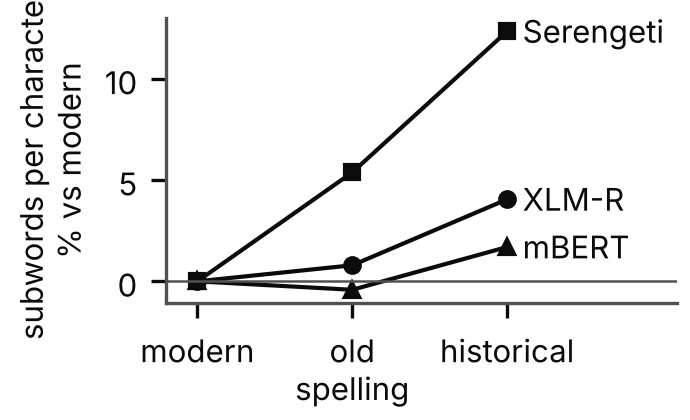
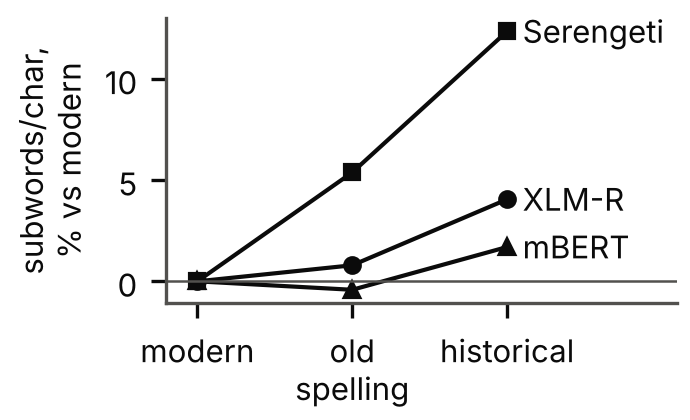
Last text fixes: figure label, hedged mechanism, wording
- Tokenizer plot y-label no longer cut off
- "would explain" instead of "predicts" for the selection mechanism
- Figure 2 caption says historical text; abstract names the difference
- Limitations wording: mission-educated voices

Claude-Session: https://claude.ai/code/session_01HjGapPgXs2nXn4XaJz3uNP

Changed region(s): [[0.0304, 0.0, 0.0913, 0.8048]]

diff --git a/paper/paper_template.tex b/paper/paper_template.tex
@@ -28,7 +28,7 @@
 
 \section{Abstract}
 {\bf \looseness=-1
-Isigidimi sama-Xosa was founded by missionaries; Imvo Zabantsundu (1884) was the first African-owned isiXhosa paper. Did it leave a trace in what each paper covered (salience) or in how it used words (framing)? Against frequency-matched random words, salience separates the papers: Imvo uses parliamentary vocabulary about 3.3 times as often, Isigidimi religious vocabulary about four times as often, and the religious result replicates in held-out years. Framing is weaker and less specific: embedding spaces differ globally and a pooled parliament-and-vote set is suggestively shifted (@@P1@@--@@P2@@ percentile of matched sets), but no concept survives correction and a directional test is significant in one of four conditions. Historical text also costs modern tokenizers 2--12\% more subwords per character, of which spelling alone is up to 5\%, most for an African-language model. Missionary control shows in agenda; its trace in framing is at best suggestive.}
+Isigidimi sama-Xosa was founded by missionaries; Imvo Zabantsundu (1884) was the first African-owned isiXhosa paper. Did that difference leave a trace in what each paper covered (salience) or in how it used words (framing)? Against frequency-matched random words, salience separates the papers: Imvo uses parliamentary vocabulary about 3.3 times as often, Isigidimi religious vocabulary about four times as often, and the religious result replicates in held-out years. Framing is weaker and less specific: embedding spaces differ globally and a pooled parliament-and-vote set is suggestively shifted (@@P1@@--@@P2@@ percentile of matched sets), but no concept survives correction and a directional test is significant in one of four conditions. Historical text costs modern tokenizers 2--12\% more subwords per character, of which spelling alone is up to 5\%, most for an African-language model. Missionary control shows in agenda; its trace in framing is at best suggestive.}
 \begin{quote}\small \textbf{Keywords:} historical isiXhosa; agenda-setting versus framing; tokenizer fairness\end{quote}
 
 \section{Introduction and Background}\label{Intro}
@@ -58,7 +58,7 @@ The IsiXhosa Intellectual Traditions archive \citep{schoots2023} holds South Afr
 \includegraphics[width=2.3in]{fig_religion_by_year.png}\hfill
 \includegraphics[width=2.3in]{fig_parliament_by_year.png}\hfill
 \includegraphics[width=2.3in]{fig_tokenizer_cost.png}
-\caption{Religious vocabulary was falling in Isigidimi long before 1884 (left); parliamentary vocabulary appears only in 1883 (centre); the African-language tokenizer pays most for historical spelling (right). Per million tokens (grey: Jabavu's probable years, unconfirmed; light blue: fortnightly Isigidimi).}
+\caption{Religious vocabulary was falling in Isigidimi long before 1884 (left); parliamentary vocabulary appears only in 1883 (centre); the African-language tokenizer pays most for historical text (right). Per million tokens (grey: Jabavu's probable years, unconfirmed; light blue: fortnightly Isigidimi).}
 \label{fig:two2}
 \end{figure*}
 
@@ -72,13 +72,13 @@ The IsiXhosa Intellectual Traditions archive \citep{schoots2023} holds South Afr
 
 \section{Discussion}
 \looseness=-1
-\textbf{Agenda more than framing.} Missionary control is clearest in coverage: Isigidimi's religious vocabulary matches the archive's qualitative account \citep{schoots2023} and replicates out of window. A selection mechanism predicts this: both papers carried correspondents' reports and readers' letters \citep{schoots2023}, so an editor's chief power was choosing what to print, which moves salience (agenda-setting; \citealp{mccombs1972}) without changing how contributors used words (framing; \citealp{entman1993}). We can rule out framing shifts above the detection floor, not smaller ones; the pooled parliament--vote shift, consistent across settings but never surviving correction, is suggestive only. The archive's 1885 type labels (editorials vs letters) allow a test.
+\textbf{Agenda more than framing.} Missionary control is clearest in coverage: Isigidimi's religious vocabulary matches the archive's qualitative account \citep{schoots2023} and replicates out of window. A selection mechanism would explain this: both papers carried correspondents' reports and readers' letters \citep{schoots2023}, so an editor's chief power was choosing what to print, which moves salience (agenda-setting; \citealp{mccombs1972}) without changing how contributors used words (framing; \citealp{entman1993}). We can rule out framing shifts above the detection floor, not smaller ones; the pooled parliament--vote shift, consistent across settings but never surviving correction, is suggestive only. The archive's 1885 type labels (editorials vs letters) allow a test.
 
-\textbf{Attribution.} Parliamentary vocabulary enters Isigidimi in 1883--84, the end of Jabavu's probable 1881--83 editorship (secondary sources; not given in the archive paper), not his arrival in 1881, and coincides with fortnightly publication and the 1884 election; an editor effect is not identified.
+\textbf{Attribution.} Parliamentary vocabulary enters Isigidimi in 1883--84, the end of Jabavu's probable 1881--83 editorship (secondary sources; absent from the archive paper), not his arrival in 1881, and coincides with fortnightly publication and the 1884 election; an editor effect is not identified.
 
 \textbf{Why framing is hard to see.} Words shift globally but rarely specifically: the most-shifted are function words, verb forms and \emph{xosa}, Isigidimi's spelling of \emph{xhosa}. Joining forms left the gap unchanged, so word division is not the explanation; spelling, register and topic remain open.
 
-\textbf{Responsible NLP.} Historical text costs modern tokenizers up to 12\% more subwords per character (spelling alone up to 5\%), most for the African-language model (pretraining data unlisted, overlap unverified). The archive's authors plan to explore machine-learning labelling and named-entity recognition; our result predicts, untested downstream, that such tools will serve 1880s isiXhosa worst, with isiXhosa speakers bearing the errors. Stems, spelling rules and neighbours await review by a first-language speaker; \emph{rulumente} is glossed ``parliament'' in the archive paper but treated here as ``government''. Limitations: two papers, one window, a missing year, no editor metadata, a domain mismatch; voices are mission elites.
+\textbf{Responsible NLP.} Historical text costs modern tokenizers up to 12\% more subwords per character (spelling alone up to 5\%), most for the African-language model (pretraining data unlisted, overlap unverified). The archive's authors plan to explore machine-learning labelling and named-entity recognition; our result predicts, untested downstream, that such tools will serve 1880s isiXhosa worst, with isiXhosa speakers bearing the errors. Stems, spelling rules and neighbours await review by a first-language speaker; \emph{rulumente} is glossed ``parliament'' in the archive paper but treated here as ``government''. Limitations: two papers, one window, a missing year, no editor metadata, a domain mismatch; mission-educated voices only.
 
 \bibliographystyle{apacite}
 \setlength{\bibleftmargin}{.125in}

diff --git a/paper/paper.tex b/paper/paper.tex
@@ -28,7 +28,7 @@
 
 \section{Abstract}
 {\bf \looseness=-1
-Isigidimi sama-Xosa was founded by missionaries; Imvo Zabantsundu (1884) was the first African-owned isiXhosa paper. Did it leave a trace in what each paper covered (salience) or in how it used words (framing)? Against frequency-matched random words, salience separates the papers: Imvo uses parliamentary vocabulary about 3.3 times as often, Isigidimi religious vocabulary about four times as often, and the religious result replicates in held-out years. Framing is weaker and less specific: embedding spaces differ globally and a pooled parliament-and-vote set is suggestively shifted (92nd--99th percentile of matched sets), but no concept survives correction and a directional test is significant in one of four conditions. Historical text also costs modern tokenizers 2--12\% more subwords per character, of which spelling alone is up to 5\%, most for an African-language model. Missionary control shows in agenda; its trace in framing is at best suggestive.}
+Isigidimi sama-Xosa was founded by missionaries; Imvo Zabantsundu (1884) was the first African-owned isiXhosa paper. Did that difference leave a trace in what each paper covered (salience) or in how it used words (framing)? Against frequency-matched random words, salience separates the papers: Imvo uses parliamentary vocabulary about 3.3 times as often, Isigidimi religious vocabulary about four times as often, and the religious result replicates in held-out years. Framing is weaker and less specific: embedding spaces differ globally and a pooled parliament-and-vote set is suggestively shifted (92nd--99th percentile of matched sets), but no concept survives correction and a directional test is significant in one of four conditions. Historical text costs modern tokenizers 2--12\% more subwords per character, of which spelling alone is up to 5\%, most for an African-language model. Missionary control shows in agenda; its trace in framing is at best suggestive.}
 \begin{quote}\small \textbf{Keywords:} historical isiXhosa; agenda-setting versus framing; tokenizer fairness\end{quote}
 
 \section{Introduction and Background}\label{Intro}
@@ -58,7 +58,7 @@ The IsiXhosa Intellectual Traditions archive \citep{schoots2023} holds South Afr
 \includegraphics[width=2.3in]{fig_religion_by_year.png}\hfill
 \includegraphics[width=2.3in]{fig_parliament_by_year.png}\hfill
 \includegraphics[width=2.3in]{fig_tokenizer_cost.png}
-\caption{Religious vocabulary was falling in Isigidimi long before 1884 (left); parliamentary vocabulary appears only in 1883 (centre); the African-language tokenizer pays most for historical spelling (right). Per million tokens (grey: Jabavu's probable years, unconfirmed; light blue: fortnightly Isigidimi).}
+\caption{Religious vocabulary was falling in Isigidimi long before 1884 (left); parliamentary vocabulary appears only in 1883 (centre); the African-language tokenizer pays most for historical text (right). Per million tokens (grey: Jabavu's probable years, unconfirmed; light blue: fortnightly Isigidimi).}
 \label{fig:two2}
 \end{figure*}
 
@@ -72,13 +72,13 @@ The IsiXhosa Intellectual Traditions archive \citep{schoots2023} holds South Afr
 
 \section{Discussion}
 \looseness=-1
-\textbf{Agenda more than framing.} Missionary control is clearest in coverage: Isigidimi's religious vocabulary matches the archive's qualitative account \citep{schoots2023} and replicates out of window. A selection mechanism predicts this: both papers carried correspondents' reports and readers' letters \citep{schoots2023}, so an editor's chief power was choosing what to print, which moves salience (agenda-setting; \citealp{mccombs1972}) without changing how contributors used words (framing; \citealp{entman1993}). We can rule out framing shifts above the detection floor, not smaller ones; the pooled parliament--vote shift, consistent across settings but never surviving correction, is suggestive only. The archive's 1885 type labels (editorials vs letters) allow a test.
+\textbf{Agenda more than framing.} Missionary control is clearest in coverage: Isigidimi's religious vocabulary matches the archive's qualitative account \citep{schoots2023} and replicates out of window. A selection mechanism would explain this: both papers carried correspondents' reports and readers' letters \citep{schoots2023}, so an editor's chief power was choosing what to print, which moves salience (agenda-setting; \citealp{mccombs1972}) without changing how contributors used words (framing; \citealp{entman1993}). We can rule out framing shifts above the detection floor, not smaller ones; the pooled parliament--vote shift, consistent across settings but never surviving correction, is suggestive only. The archive's 1885 type labels (editorials vs letters) allow a test.
 
-\textbf{Attribution.} Parliamentary vocabulary enters Isigidimi in 1883--84, the end of Jabavu's probable 1881--83 editorship (secondary sources; not given in the archive paper), not his arrival in 1881, and coincides with fortnightly publication and the 1884 election; an editor effect is not identified.
+\textbf{Attribution.} Parliamentary vocabulary enters Isigidimi in 1883--84, the end of Jabavu's probable 1881--83 editorship (secondary sources; absent from the archive paper), not his arrival in 1881, and coincides with fortnightly publication and the 1884 election; an editor effect is not identified.
 
 \textbf{Why framing is hard to see.} Words shift globally but rarely specifically: the most-shifted are function words, verb forms and \emph{xosa}, Isigidimi's spelling of \emph{xhosa}. Joining forms left the gap unchanged, so word division is not the explanation; spelling, register and topic remain open.
 
-\textbf{Responsible NLP.} Historical text costs modern tokenizers up to 12\% more subwords per character (spelling alone up to 5\%), most for the African-language model (pretraining data unlisted, overlap unverified). The archive's authors plan to explore machine-learning labelling and named-entity recognition; our result predicts, untested downstream, that such tools will serve 1880s isiXhosa worst, with isiXhosa speakers bearing the errors. Stems, spelling rules and neighbours await review by a first-language speaker; \emph{rulumente} is glossed ``parliament'' in the archive paper but treated here as ``government''. Limitations: two papers, one window, a missing year, no editor metadata, a domain mismatch; voices are mission elites.
+\textbf{Responsible NLP.} Historical text costs modern tokenizers up to 12\% more subwords per character (spelling alone up to 5\%), most for the African-language model (pretraining data unlisted, overlap unverified). The archive's authors plan to explore machine-learning labelling and named-entity recognition; our result predicts, untested downstream, that such tools will serve 1880s isiXhosa worst, with isiXhosa speakers bearing the errors. Stems, spelling rules and neighbours await review by a first-language speaker; \emph{rulumente} is glossed ``parliament'' in the archive paper but treated here as ``government''. Limitations: two papers, one window, a missing year, no editor metadata, a domain mismatch; mission-educated voices only.
 
 \bibliographystyle{apacite}
 \setlength{\bibleftmargin}{.125in}

diff --git a/src/07_figures.py b/src/07_figures.py
@@ -92,7 +92,7 @@ def tokenizer():
     ax.axhline(0, color=MUTED, lw=0.6)
     ax.set_xticks(range(3)); ax.set_xticklabels(["modern", "old\nspelling", "historical"], fontsize=7.5)
     ax.set_xlim(-0.2, 3.1); ax.tick_params(labelsize=7.5)
-    ax.set_ylabel("subwords per character,\n% vs modern", fontsize=7.5)
+    ax.set_ylabel("subwords/char,\n% vs modern", fontsize=7.5)
     fig.savefig(OUT / "fig_tokenizer_cost.png")
 
 
